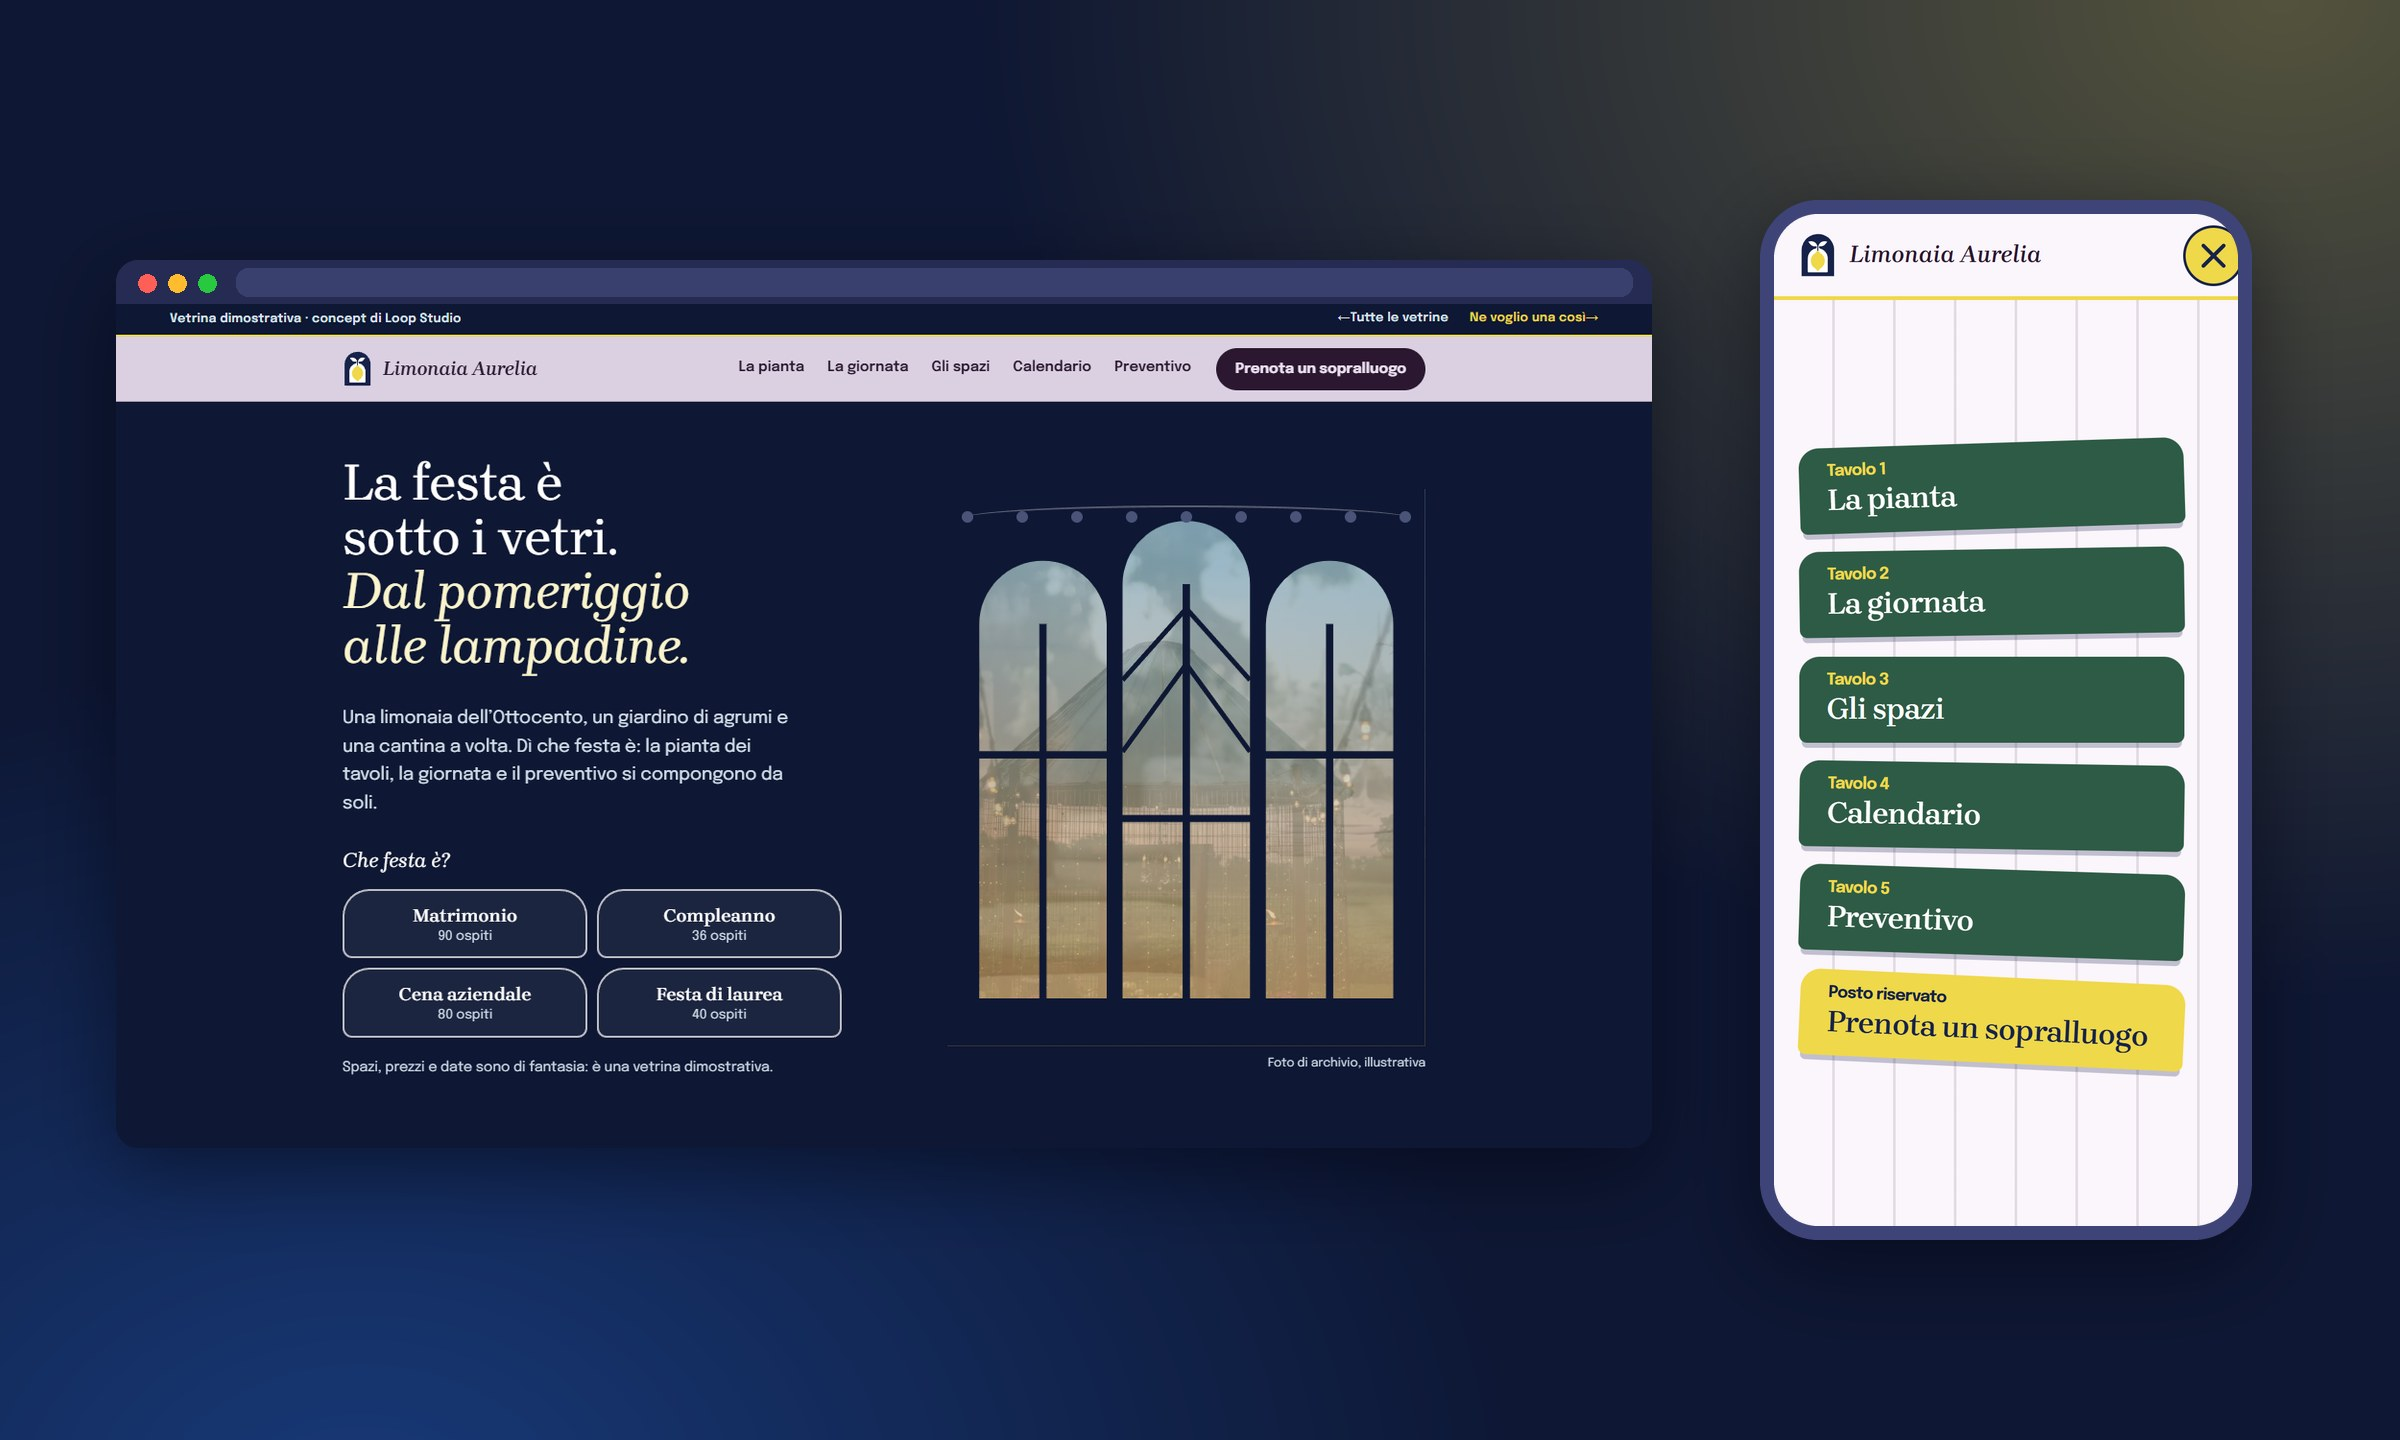
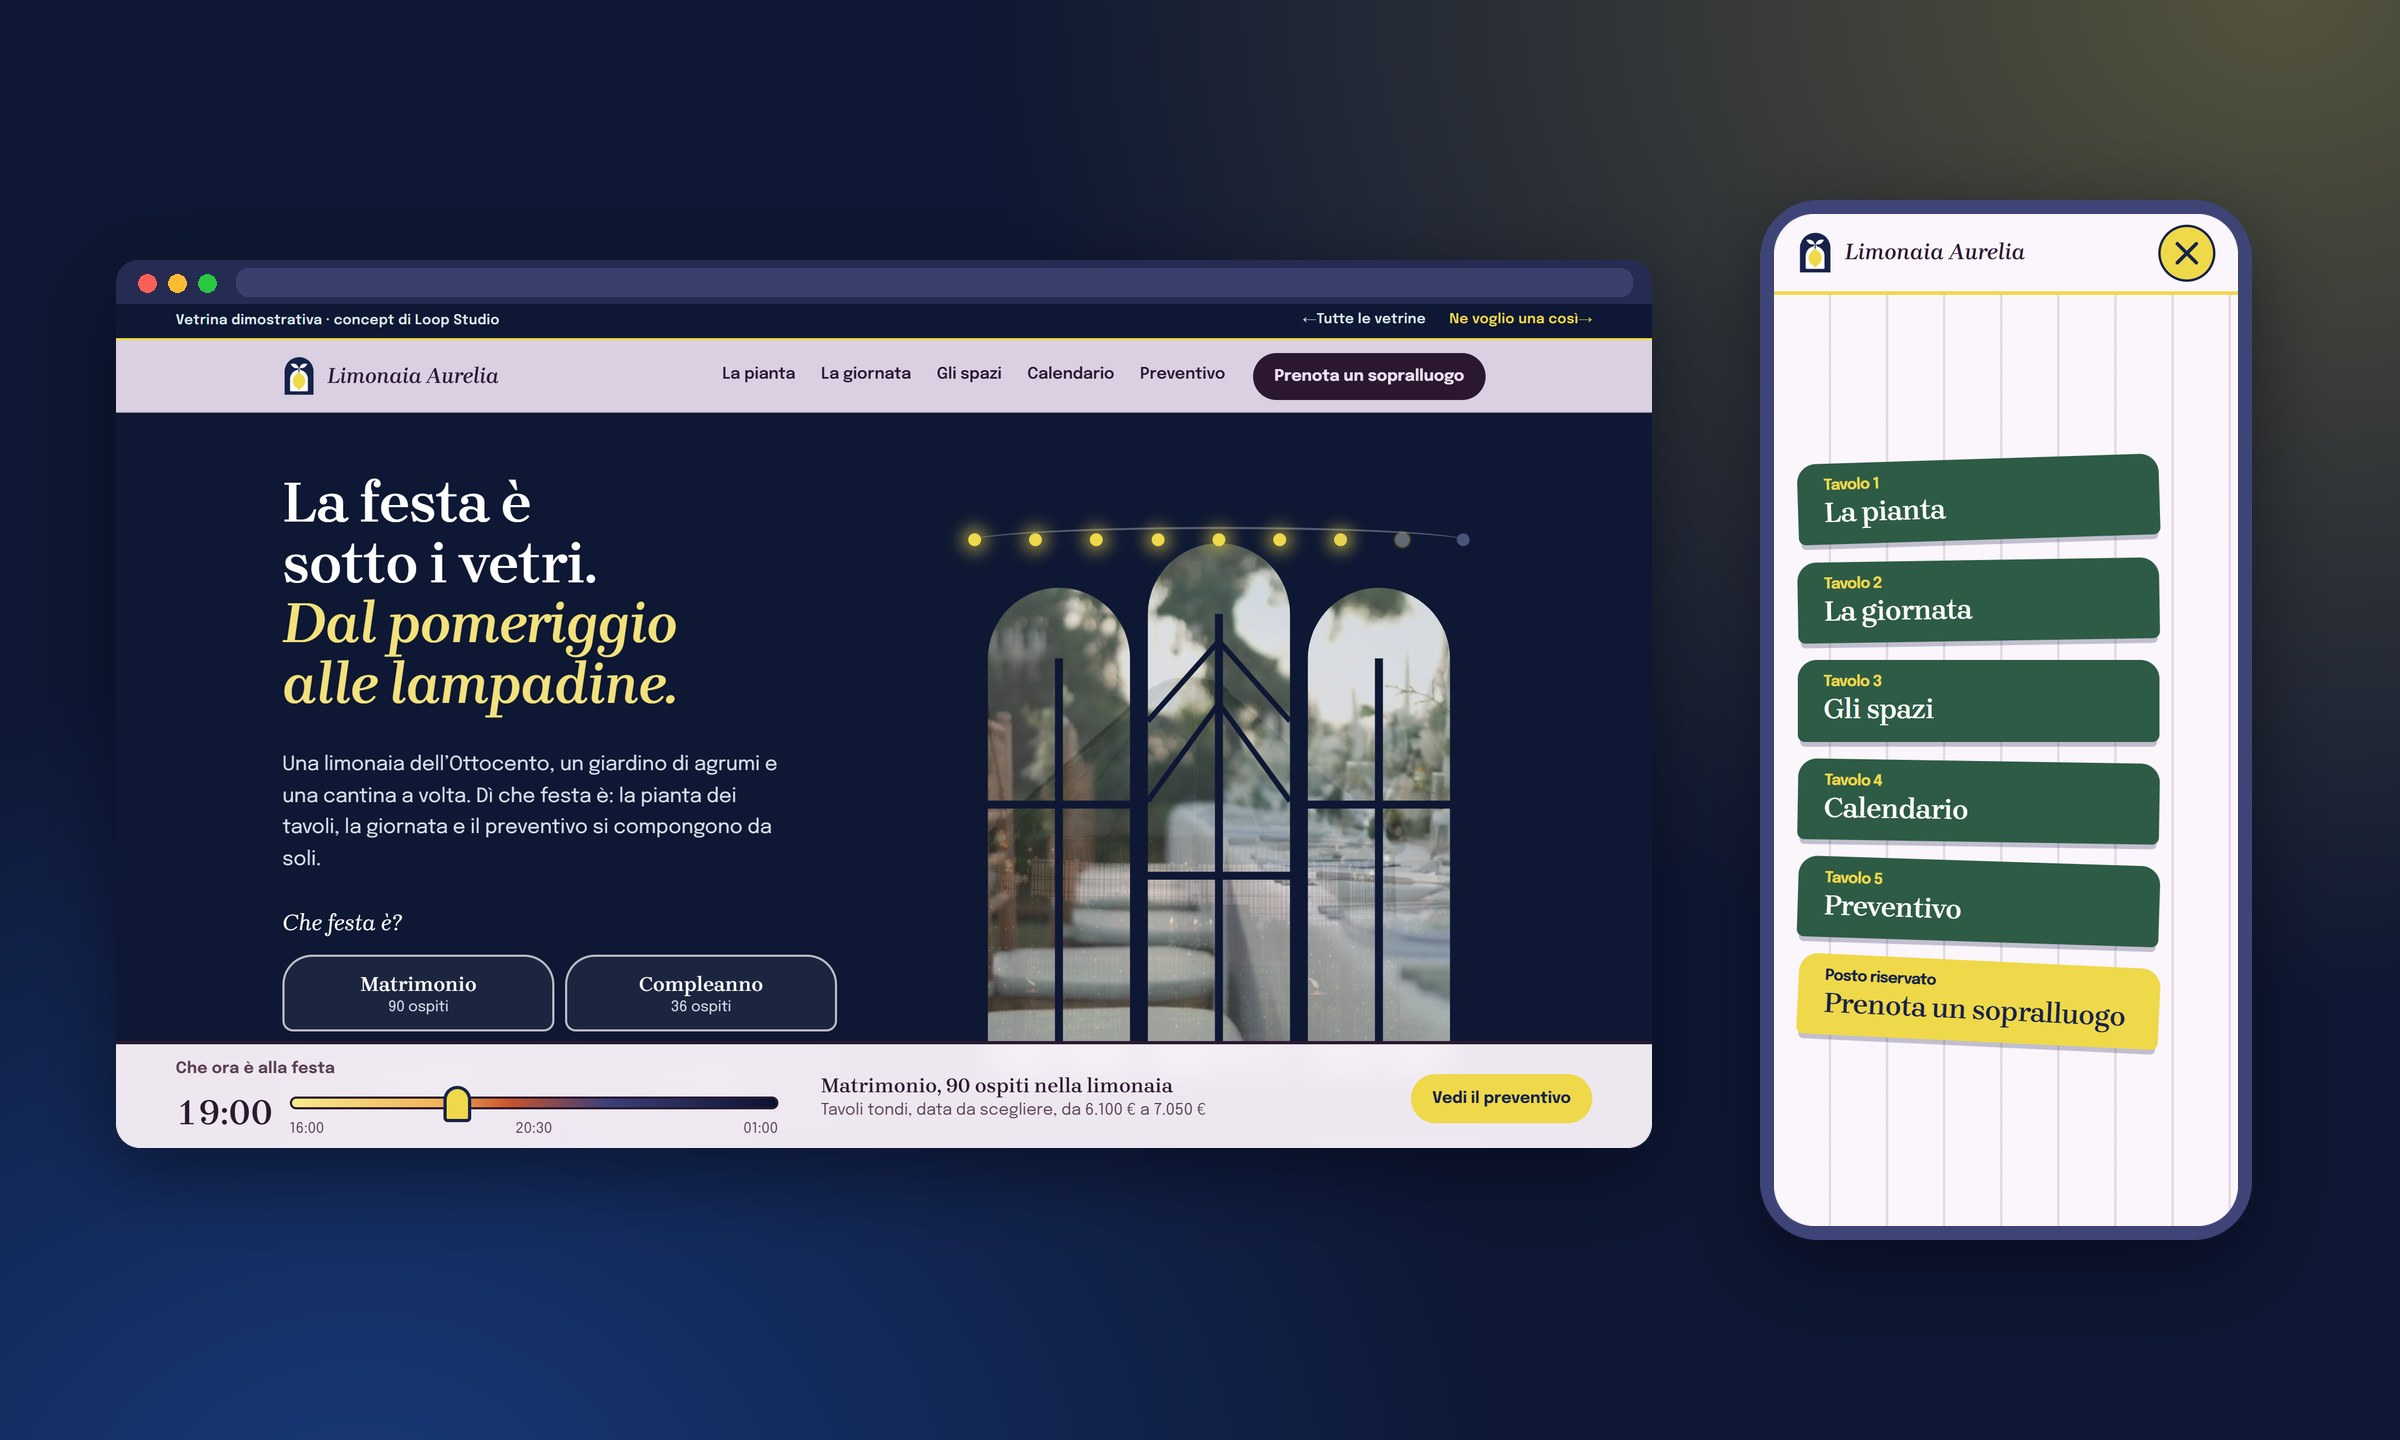
Hub: testi in italiano per le vetrine in spagnolo e inglese (solo i nomi dei brand restano), card e shot di Limonaia v2, Performance di Mala Hierba 96; Marrow & Knot: titoli leggibili in pila su telefono (bianchi sulle foto scure, inchiostro con alone sulle chiare)

Changed region(s): [[0.0312, 0.2188, 0.6875, 0.8125], [0.75, 0.2812, 0.9375, 0.75], [0.75, 0.1562, 0.9375, 0.2188]]

diff --git a/src/hub/data.ts b/src/hub/data.ts
@@ -651,14 +651,14 @@ export const concepts: Concept[] = [
 		nome: 'Obra Fina',
 		categoria: 'Abitare',
 		archetipo: 'L’impresa di ristrutturazioni',
-		claim: 'Obra gruesa para que aguante. Obra fina para que se note. Una casa in sezione da toccare stanza per stanza: preventivo, calendario e pavimento a vista.',
+		claim: 'Il grezzo perché regga, la finitura perché si noti. Una casa in sezione da toccare stanza per stanza: preventivo, calendario e pavimento a vista.',
 		path: '/casa/ristrutturazioni/',
 		infoPath: '/casa/ristrutturazioni/info/',
 		titoloSeo: 'Sito web per impresa di ristrutturazioni: homepage concept con preventivatore a stanze (in spagnolo)',
 		descrizioneSeo:
 			'Come potrebbe essere la homepage di un’impresa di ristrutturazioni: una casa in sezione da cui scegliere stanza per stanza, preventivo che si calcola da solo, calendario dei lavori, campionario di piastrelle idrauliche e prenotazione della visita. In spagnolo, per il mercato spagnolo. Concept dimostrativo di Loop Studio.',
 		intro: [
-			'Chi vuole ristrutturare casa ha due paure: che il preventivo cresca strada facendo e che i lavori non finiscano mai. Questa homepage le affronta prima di ogni telefonata: si disegna la propria casa stanza per stanza, si sceglie quanto lavoro serve a ciascuna e si vede subito costo, durata e perfino quando si consegna. Il sito è in spagnolo, pensato per il mercato spagnolo, e parla il linguaggio del cantiere: obra gruesa, obra fina, presupuesto cerrado.',
+			'Chi vuole ristrutturare casa ha due paure: che il preventivo cresca strada facendo e che i lavori non finiscano mai. Questa homepage le affronta prima di ogni telefonata: si disegna la propria casa stanza per stanza, si sceglie quanto lavoro serve a ciascuna e si vede subito costo, durata e perfino quando si consegna. Il sito è in spagnolo, pensato per il mercato spagnolo, e parla il linguaggio del cantiere: il grezzo, le finiture, il preventivo a prezzo chiuso.',
 			'È il livello Evoluto della categoria Abitare e una vetrina dimostrativa: l’impresa, i prezzi, i tempi, le recensioni e il numero di telefono sono di fantasia, e le fotografie sono d’archivio. Serve a mostrare che un’impresa edile può avere un sito che fa il preventivo insieme al cliente, con una sezione di casa da toccare, un calendario vero e una palette di calce, terracotta e un solo blu di gesso.',
 		],
 		perChi:
@@ -666,14 +666,14 @@ export const concepts: Concept[] = [
 		sezioni: [
 			{
 				t: 'Una casa in sezione da toccare',
-				d: 'Sette stanze in una sezione disegnata in CSS: se ne sceglie una, si decide quanta opera serve (nulla, ritocco, riforma, a fondo) e le pareti si ridipingono con un passaggio di cazzuola. Tre livelli da attraversare con una transizione: struttura, impianti, finiture.',
+				d: 'Sette stanze in una sezione disegnata in CSS: se ne sceglie una, si decide quanto lavoro serve (nulla, ritocco, riforma, a fondo) e le pareti si ridipingono con un passaggio di cazzuola. Tre livelli da attraversare con una transizione: struttura, impianti, finiture.',
 			},
 			{
 				t: 'Il preventivo si scrive da solo',
-				d: 'Metri quadri su un righello, extra per stanza e colore delle pareti: la hoja de obra mostra riga per riga i costi, il riparto fra opera grezza, impianti e finiture, IVA e totale con una forbice onesta.',
+				d: 'Metri quadri su un righello, extra per stanza e colore delle pareti: la scheda di cantiere mostra riga per riga i costi, il riparto fra opera grezza, impianti e finiture, IVA e totale con una forbice onesta.',
 			},
 			{
-				t: 'Il calendario della propria obra',
+				t: 'Il calendario del proprio cantiere',
 				d: 'Un diagramma di Gantt calcolato sulle scelte fatte: fasi, settimane, data di inizio e di consegna, e se si può restare a vivere in casa durante i lavori.',
 			},
 			{
@@ -694,7 +694,7 @@ export const concepts: Concept[] = [
 		shotAlt: '',
 		crop: '55% 40%',
 		cardAlt: 'Obra Fina su desktop e su telefono: titolo in serif su calce azzurrina, un arco di intonaco con fotografia e un filo a piombo, una casa in sezione con stanze colorate, una riga di gesso blu, il menù mobile a tre mani di cazzuola.',
-		mood: 'La bottega dell’obra fina: calce con l’azulete (l’azzurro delle case imbiancate), argilla, seppia e il blu del gesso (il cordello del muratore). Intonaco ovunque, rótulos di cantiere in carattere largo; la barra di avanzamento è una livella a bolla.',
+		mood: 'La bottega della finitura: calce con una punta di azzurro (quello delle case imbiancate), argilla, seppia e il blu del gesso (il cordello del muratore). Intonaco ovunque, scritte di cantiere in carattere largo; la barra di avanzamento è una livella a bolla.',
 		caratteri: 'Young Serif, Onest e Anybody',
 		palette: ['#d9e3f1', '#b9482a', '#241a14', '#2b49c8', '#d9a441', '#59582b'],
 		metriche: [
@@ -770,35 +770,35 @@ export const concepts: Concept[] = [
 		macro: 'eventi',
 		nome: 'Mala Hierba Flores',
 		categoria: 'Eventi',
-		archetipo: 'La florería per cerimonie e ricorrenze',
-		claim: 'Flores con carácter para las fechas que importan. Un ramo che si compone mentre scegli: ocasión, tamaño, flor, colores e tarjeta, con il prezzo in diretta.',
+		archetipo: 'La fioreria per cerimonie e ricorrenze',
+		claim: 'Fiori con carattere per le date che contano. Un mazzo che si compone mentre scegli: occasione, dimensione, fiore, colori e biglietto, con il prezzo in diretta.',
 		path: '/eventi/fiorista/',
 		infoPath: '/eventi/fiorista/info/',
-		titoloSeo: 'Sito web per fiorista e allestimenti per cerimonie: homepage concept con composizione del ramo',
+		titoloSeo: 'Sito web per fiorista e allestimenti per cerimonie: homepage concept con composizione del mazzo',
 		descrizioneSeo:
-			'Come potrebbe essere la homepage di una florería che lavora per matrimoni, XV anni, bautizos e Día de Muertos: un ramo da comporre con prezzo e tarjeta in diretta, montajes, prenotazione della consegna. In spagnolo messicano. Concept dimostrativo di Loop Studio.',
+			'Come potrebbe essere la homepage di una fioreria che lavora per matrimoni, feste dei quindici anni, battesimi e Giorno dei Morti: un mazzo da comporre con prezzo e biglietto in diretta, allestimenti, prenotazione della consegna. In spagnolo messicano. Concept dimostrativo di Loop Studio.',
 		intro: [
-			'Chi ordina fiori per una cerimonia ha poco tempo e molte domande: quanto costa, arriva in tempo, come sarà. Questa homepage lascia che sia il cliente a comporre il ramo, scegliendo ocasión, tamaño, flor, colori e confezione, e vedendo subito il disegno, il prezzo e la tarjeta scritta a mano, prima ancora di scrivere su WhatsApp.',
-			'È il livello Essenziale della categoria Eventi e una vetrina dimostrativa, scritta in spagnolo messicano per il mercato del Messico: la florería, i prezzi in pesos, le recensioni, il telefono e l’indirizzo sono di fantasia, e le fotografie sono d’archivio. Il filo del sito è il papel picado, le banderine di carta calata che in Messico decorano ogni festa.',
+			'Chi ordina fiori per una cerimonia ha poco tempo e molte domande: quanto costa, arriva in tempo, come sarà. Questa homepage lascia che sia il cliente a comporre il mazzo, scegliendo occasione, dimensione, fiore, colori e confezione, e vedendo subito il disegno, il prezzo e il biglietto scritto a mano, prima ancora di scrivere su WhatsApp.',
+			'È il livello Essenziale della categoria Eventi e una vetrina dimostrativa, scritta in spagnolo messicano per il mercato del Messico: la fioreria, i prezzi in pesos, le recensioni, il telefono e l’indirizzo sono di fantasia, e le fotografie sono d’archivio. Il filo del sito è la carta traforata (il “papel picado”), le bandierine che in Messico decorano ogni festa.',
 		],
 		perChi:
-			'Fioristi e studi di allestimento per cerimonie (matrimoni, quince, battesimi, funerali e ricorrenze), botteghe di quartiere con consegna in giornata e chi lavora su ordinazione via WhatsApp. Adatta a chi vuole far capire in pochi secondi cosa può avere, quanto costa e entro quando.',
+			'Fioristi e studi di allestimento per cerimonie (matrimoni, feste dei quindici anni, battesimi, funerali e ricorrenze), botteghe di quartiere con consegna in giornata e chi lavora su ordinazione via WhatsApp. Adatta a chi vuole far capire in pochi secondi cosa può avere, quanto costa e entro quando.',
 		sezioni: [
 			{
-				t: 'Un ramo che si compone mentre scegli',
-				d: 'Ocasión, tamaño, flor, colori e confezione: il ramo si ridisegna a ogni scelta con tallo, foglie e fiocco, e il totale si aggiorna con la spedizione. Un tasto lo rimescola per vederne un altro acomodo.',
+				t: 'Un mazzo che si compone mentre scegli',
+				d: 'Occasione, dimensione, fiore, colori e confezione: il mazzo si ridisegna a ogni scelta con gambo, foglie e fiocco, e il totale si aggiorna con la spedizione. Un tasto lo rimescola per vederne un’altra disposizione.',
 			},
 			{
 				t: 'Una stagione che si vede: Día de Muertos',
-				d: 'Una sezione di temporada con il conto alla rovescia al 2 novembre e un listino di mercato con i puntini: cempasúchil, cresta de gallo, kit e arco di ofrenda.',
+				d: 'Una sezione stagionale con il conto alla rovescia al 2 novembre e un listino di mercato con i puntini: tagete, cresta di gallo, kit e arco per l’altare dei morti.',
 			},
 			{
 				t: 'Consegna con giorni e fasce vere',
-				d: 'Il pedido sceglie giorno e fascia tra quelli possibili: la consegna in giornata si chiude alle 14 h (ora di Città del Messico), e la domenica ha meno fasce. Errori chiari e una ricevuta con folio.',
+				d: 'L’ordine sceglie giorno e fascia tra quelli possibili: la consegna in giornata si chiude alle 14 (ora di Città del Messico), e la domenica ha meno fasce. Errori chiari e una ricevuta con numero progressivo.',
 			},
 			{
-				t: 'Montajes e un tono che si adatta',
-				d: 'Arco, centros de mesa con calcolatrice e tapetes di fiori. Se si sceglie Condolencias la scena diventa sobria, senza banderine e con il telefono per coronas e velatorio.',
+				t: 'Allestimenti e un tono che si adatta',
+				d: 'Arco, centrotavola con calcolatrice e tappeti di fiori. Se si sceglie “Condolencias” (le condoglianze) la scena diventa sobria, senza bandierine e con il telefono per corone e veglia funebre.',
 			},
 		],
 		awning: ['#c20b60', '#ffc7dc'],
@@ -809,12 +809,12 @@ export const concepts: Concept[] = [
 		shot: shotMalahierba,
 		shotAlt: '',
 		crop: '70% 35%',
-		cardAlt: 'Mala Hierba Flores su desktop e su telefono: titolo grande su fondo fucsia con una fila di banderine di papel picado, una foto di ramos in carta kraft con un cartellino a pennarello, il menù mobile come cortina.',
-		mood: 'Un taller de papel picado: fucsia pieno, verde bosco, cempasúchil e turchese, lettering morbido e cartellini scritti a pennarello, con foto vere di mercato e un ramo disegnato che si ricompone.',
+		cardAlt: 'Mala Hierba Flores su desktop e su telefono: titolo grande su fondo fucsia con una fila di bandierine di carta traforata, una foto di mazzi in carta kraft con un cartellino a pennarello, il menù mobile come cortina.',
+		mood: 'Un laboratorio di carta traforata: fucsia pieno, verde bosco, tagete arancio e turchese, lettering morbido e cartellini scritti a pennarello, con foto vere di mercato e un mazzo disegnato che si ricompone.',
 		caratteri: 'Caprasimo, Familjen Grotesk e Permanent Marker',
 		palette: ['#c20b60', '#0e3b2b', '#ff9a1f', '#12b5ad', '#ffc7dc', '#fff0f6'],
 		metriche: [
-			{ label: 'Performance', valore: '90' },
+			{ label: 'Performance', valore: '96' },
 			{ label: 'Accessibilità', valore: '100' },
 			{ label: 'Buone pratiche', valore: '100' },
 		],
@@ -879,7 +879,7 @@ export const concepts: Concept[] = [
 		nome: 'Marrow & Knot',
 		categoria: 'Eventi',
 		archetipo: 'Il wedding planner per nozze in Italia',
-		claim: 'Weddings in Italy. Cinque sale da attraversare, dal lago di Como a Venezia: foto a tutta pagina che si tessono a fili, storia e consigli per chi arriva da lontano, un nodo che si stringe mentre scrivi.',
+		claim: 'Matrimoni in Italia. Cinque sale da attraversare, dal lago di Como a Venezia: foto a tutta pagina che si tessono a fili, storia e consigli per chi arriva da lontano, un nodo che si stringe mentre scrivi.',
 		path: '/eventi/wedding/',
 		infoPath: '/eventi/wedding/info/',
 		titoloSeo: 'Sito web per wedding planner: homepage concept in inglese per matrimoni di destinazione',
